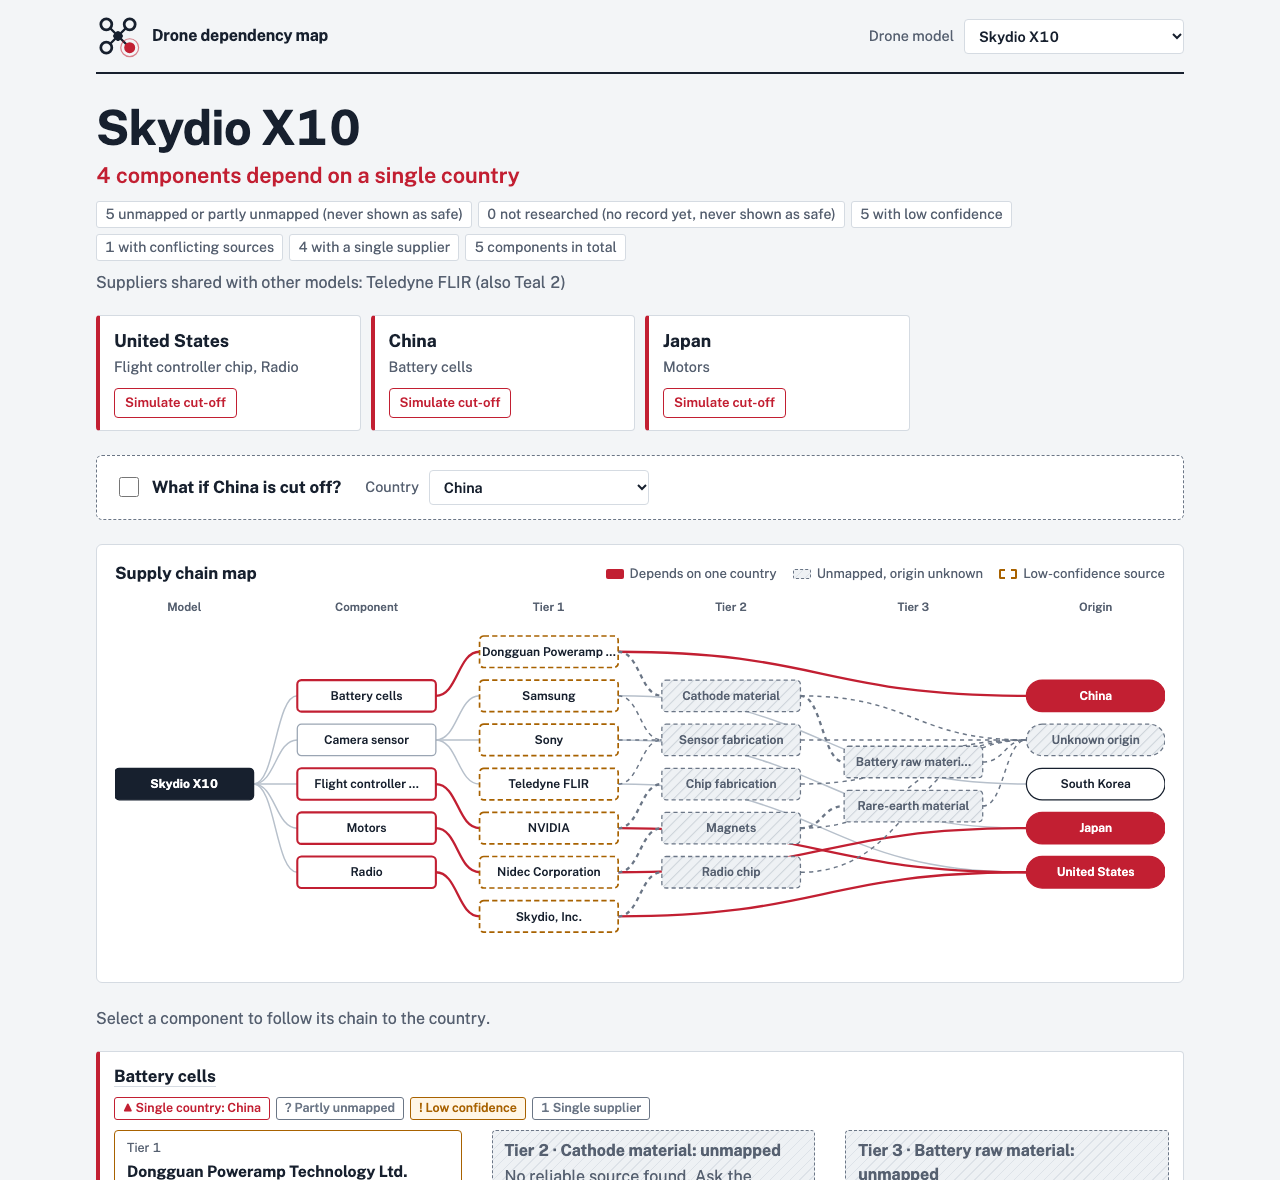
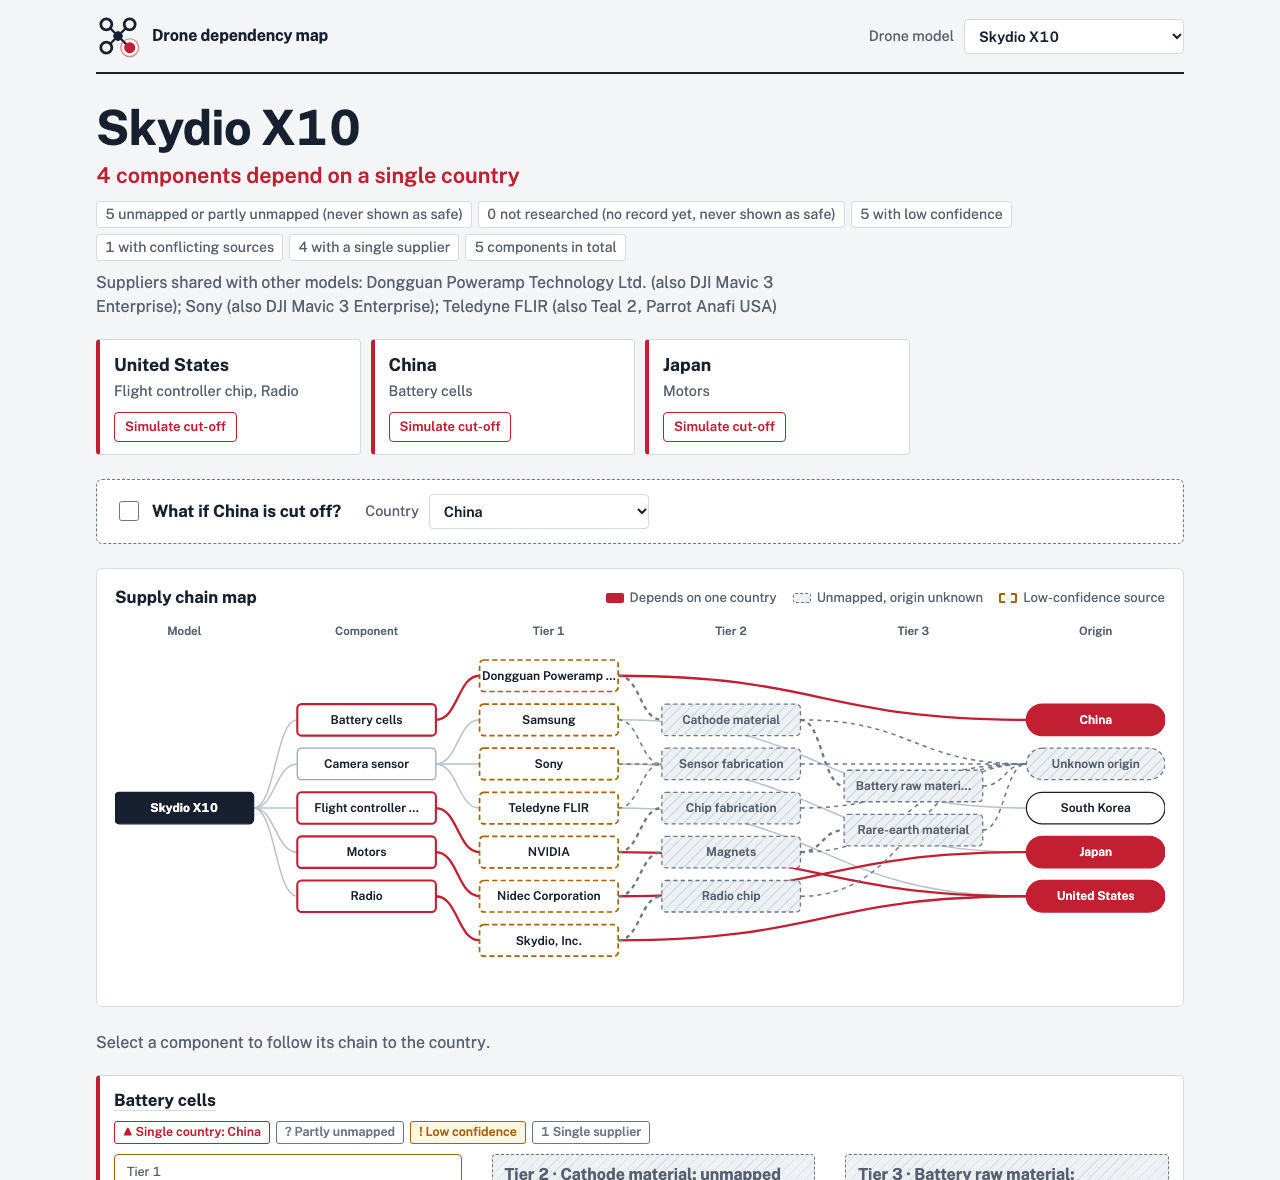
Docs: refresh figures, API examples and screenshot for #10's data
67 records, 31 mapped; a China cut-off now hits 3 components with 17
unknown; three shared suppliers; 4 hand-check overrides.

diff --git a/README.md b/README.md
@@ -10,20 +10,20 @@ Procurement officers can see a drone's first-tier suppliers, but not what sits u
 
 ## What the map shows today
 
-Four models, 56 supplier records. Every mapped link was checked by a verifier agent, and 2 more were rejected by hand. These figures come from `data/links.json` as of this commit, read through the risk engine:
+Four models, 67 supplier records. Every mapped link was checked by a verifier agent, and 4 were overruled by hand after reading the evidence. These figures come from `data/links.json` as of this commit, read through the risk engine:
 
 | Model | Components that depend on a single country | Partly or fully unmapped |
 |---|---|---|
 | Skydio X10 | battery cells (China), flight controller chip (US), motors (Japan), radio (US) | 5 of 5 |
-| Parrot Anafi USA | flight controller chip (US), radio (Canada) | 5 of 5 |
-| Teal 2 | camera sensor (US), motors (US), radio (Singapore) | 5 of 5 |
-| DJI Mavic 3 Enterprise | radio (China) | 4 of 5 |
+| Parrot Anafi USA | battery cells (South Korea), camera sensor (US), flight controller chip (US), radio (Canada) | 5 of 5 |
+| Teal 2 | camera sensor (US), flight controller chip (US), motors (US), radio (Singapore) | 5 of 5 |
+| DJI Mavic 3 Enterprise | battery cells (China), camera sensor (Japan), radio (China) | 4 of 5 |
 
 What that means:
 
-- **A China cut-off provably hits 2 components** (Skydio X10 battery cells, DJI Mavic 3 Enterprise radio), and **18 more cannot be ruled out** because a tier is unmapped. The tool shows those as unknown, never as safe.
-- **Teledyne FLIR is a shared supplier**: the same thermal sensor maker sits in Skydio X10 and Teal 2.
-- **Public sources answer "who does the drone maker buy from", not "what is inside the part".** 20 of 56 links are mapped, none at high confidence, and almost every sub-tier (magnets, cell materials, chip fabs) is unmapped. The [riskiest-bet test](research/riskiest-bet.md) failed on sub-tier for this reason. Sub-tier data needs paid teardowns, customs records or vendor questionnaires; the interface says "Ask the vendor" on every gap.
+- **A China cut-off provably hits 3 components** (Skydio X10 battery cells, DJI Mavic 3 Enterprise battery cells and radio), and **17 more cannot be ruled out** because a tier is unmapped. The tool shows those as unknown, never as safe.
+- **Three suppliers are shared across models**: Teledyne FLIR (Skydio X10, Teal 2, Parrot Anafi USA), Sony and Dongguan Poweramp (both Skydio X10 and DJI Mavic 3 Enterprise). One of them failing hits several drones at once.
+- **Public sources answer "who does the drone maker buy from", not "what is inside the part".** 31 of 67 links are mapped, none at high confidence, and almost every sub-tier (magnets, cell materials, chip fabs) is unmapped. The [riskiest-bet test](research/riskiest-bet.md) failed on sub-tier for this reason. Sub-tier data needs paid teardowns, customs records or vendor questionnaires; the interface says "Ask the vendor" on every gap.
 
 Per-model detail and the research notes behind every gap: [research/coverage.md](research/coverage.md).
 

diff --git a/docs/api.md b/docs/api.md
@@ -52,7 +52,11 @@ Shortened to the first 2 of 5 flagged components:
     { "component": "camera sensor", "reasons": ["conflict", "unknown"],
       "countries": ["KR", "JP", "US"], "low_confidence": true, "link_ids": [3, 4, 5, 6] }
   ],
-  "chokepoints": [{ "supplier": "Teledyne FLIR", "models": ["Skydio X10", "Teal 2"] }]
+  "chokepoints": [
+    { "supplier": "Dongguan Poweramp Technology Ltd.", "models": ["Skydio X10", "DJI Mavic 3 Enterprise"] },
+    { "supplier": "Sony", "models": ["Skydio X10", "DJI Mavic 3 Enterprise"] },
+    { "supplier": "Teledyne FLIR", "models": ["Skydio X10", "Teal 2", "Parrot Anafi USA"] }
+  ]
 }
 ```
 
@@ -96,17 +100,19 @@ curl -s "localhost:3001/api/models/Skydio%20X10/chain/motors"
 curl -s localhost:3001/api/cutoff/CN
 ```
 
-Shortened to the first 2 of 18 unknown components:
+Shortened to the first 2 of 17 unknown components:
 
 ```json
 {
   "country": "CN",
   "affected": [
     { "model": "Skydio X10", "component": "battery cells", "link_ids": [0] },
-    { "model": "DJI Mavic 3 Enterprise", "component": "radio", "link_ids": [53, 54, 55] }
+    { "model": "DJI Mavic 3 Enterprise", "component": "battery cells", "link_ids": [63] },
+    { "model": "DJI Mavic 3 Enterprise", "component": "radio", "link_ids": [53, 54, 55, 66] }
   ],
   "fully_blocked": [
     { "model": "Skydio X10", "component": "battery cells" },
+    { "model": "DJI Mavic 3 Enterprise", "component": "battery cells" },
     { "model": "DJI Mavic 3 Enterprise", "component": "radio" }
   ],
   "unknown": [
@@ -126,7 +132,7 @@ curl -s -X POST localhost:3001/api/ask -H 'content-type: application/json' \
   -d '{"question":"Which models would be hit if China were cut off?"}'
 ```
 
-Returns `{ "answer": "...", "links": [ full records, each with its id ] }`. The real answer to that question, with `links` shortened:
+Returns `{ "answer": "...", "links": [ full records, each with its id ] }`. A real answer to that question, captured on the 56-record dataset before #10 added DJI's battery cells, with `links` shortened:
 
 > If China (CN) were cut off, two models would be directly hit with a confirmed block: Skydio X10 (battery cells fully blocked, link 0) and DJI Mavic 3 Enterprise (radio fully blocked, links 53-55). Several other component dependencies have unmapped China exposure, so they cannot be confirmed safe: […] Those unknown items should be treated as at risk until their supply chains are mapped.
 

diff --git a/docs/architecture.md b/docs/architecture.md
@@ -23,7 +23,7 @@ flowchart LR
 
 1. **Research** (`pipeline/`). For each model and research category (motors, magnets, battery cells, flight controller chip, camera sensor, radio), a research agent searches the web and returns up to 3 sourced candidates per part and tier.
 2. **Verify.** A verifier agent opens every source page and rates each claim `high`, `low` or `unmapped`. Code then checks that the verifier's evidence quote really appears on the page. Claims based only on a supplier's headquarters are capped at `low`. If every source for a tier is rejected, research runs once more with those URLs excluded.
-3. **Hand check.** `research/overrides.json` holds verdicts a person made after reading the evidence; they override the verifier (2 so far).
+3. **Hand check.** `research/overrides.json` holds verdicts a person made after reading the evidence; they override the verifier (4 so far).
 4. **Merge.** Rejected links are dropped, supplier spellings folded into one, conflicts flagged, and an `unmapped` record written for every tier searched with no result. New records are appended; existing ones keep their position, which is their id. The full trail of every job goes to `research/raw/`.
 5. **Validate and assess** (`src/risk.js`). On every API request the server re-reads `links.json`, validates every record, and runs the [risk rules](risk-model.md).
 6. **Serve** (`src/server.js`). The [Risk API](api.md) answers the interface, the query agent and the brief agent, and serves the built interface on the same port.
